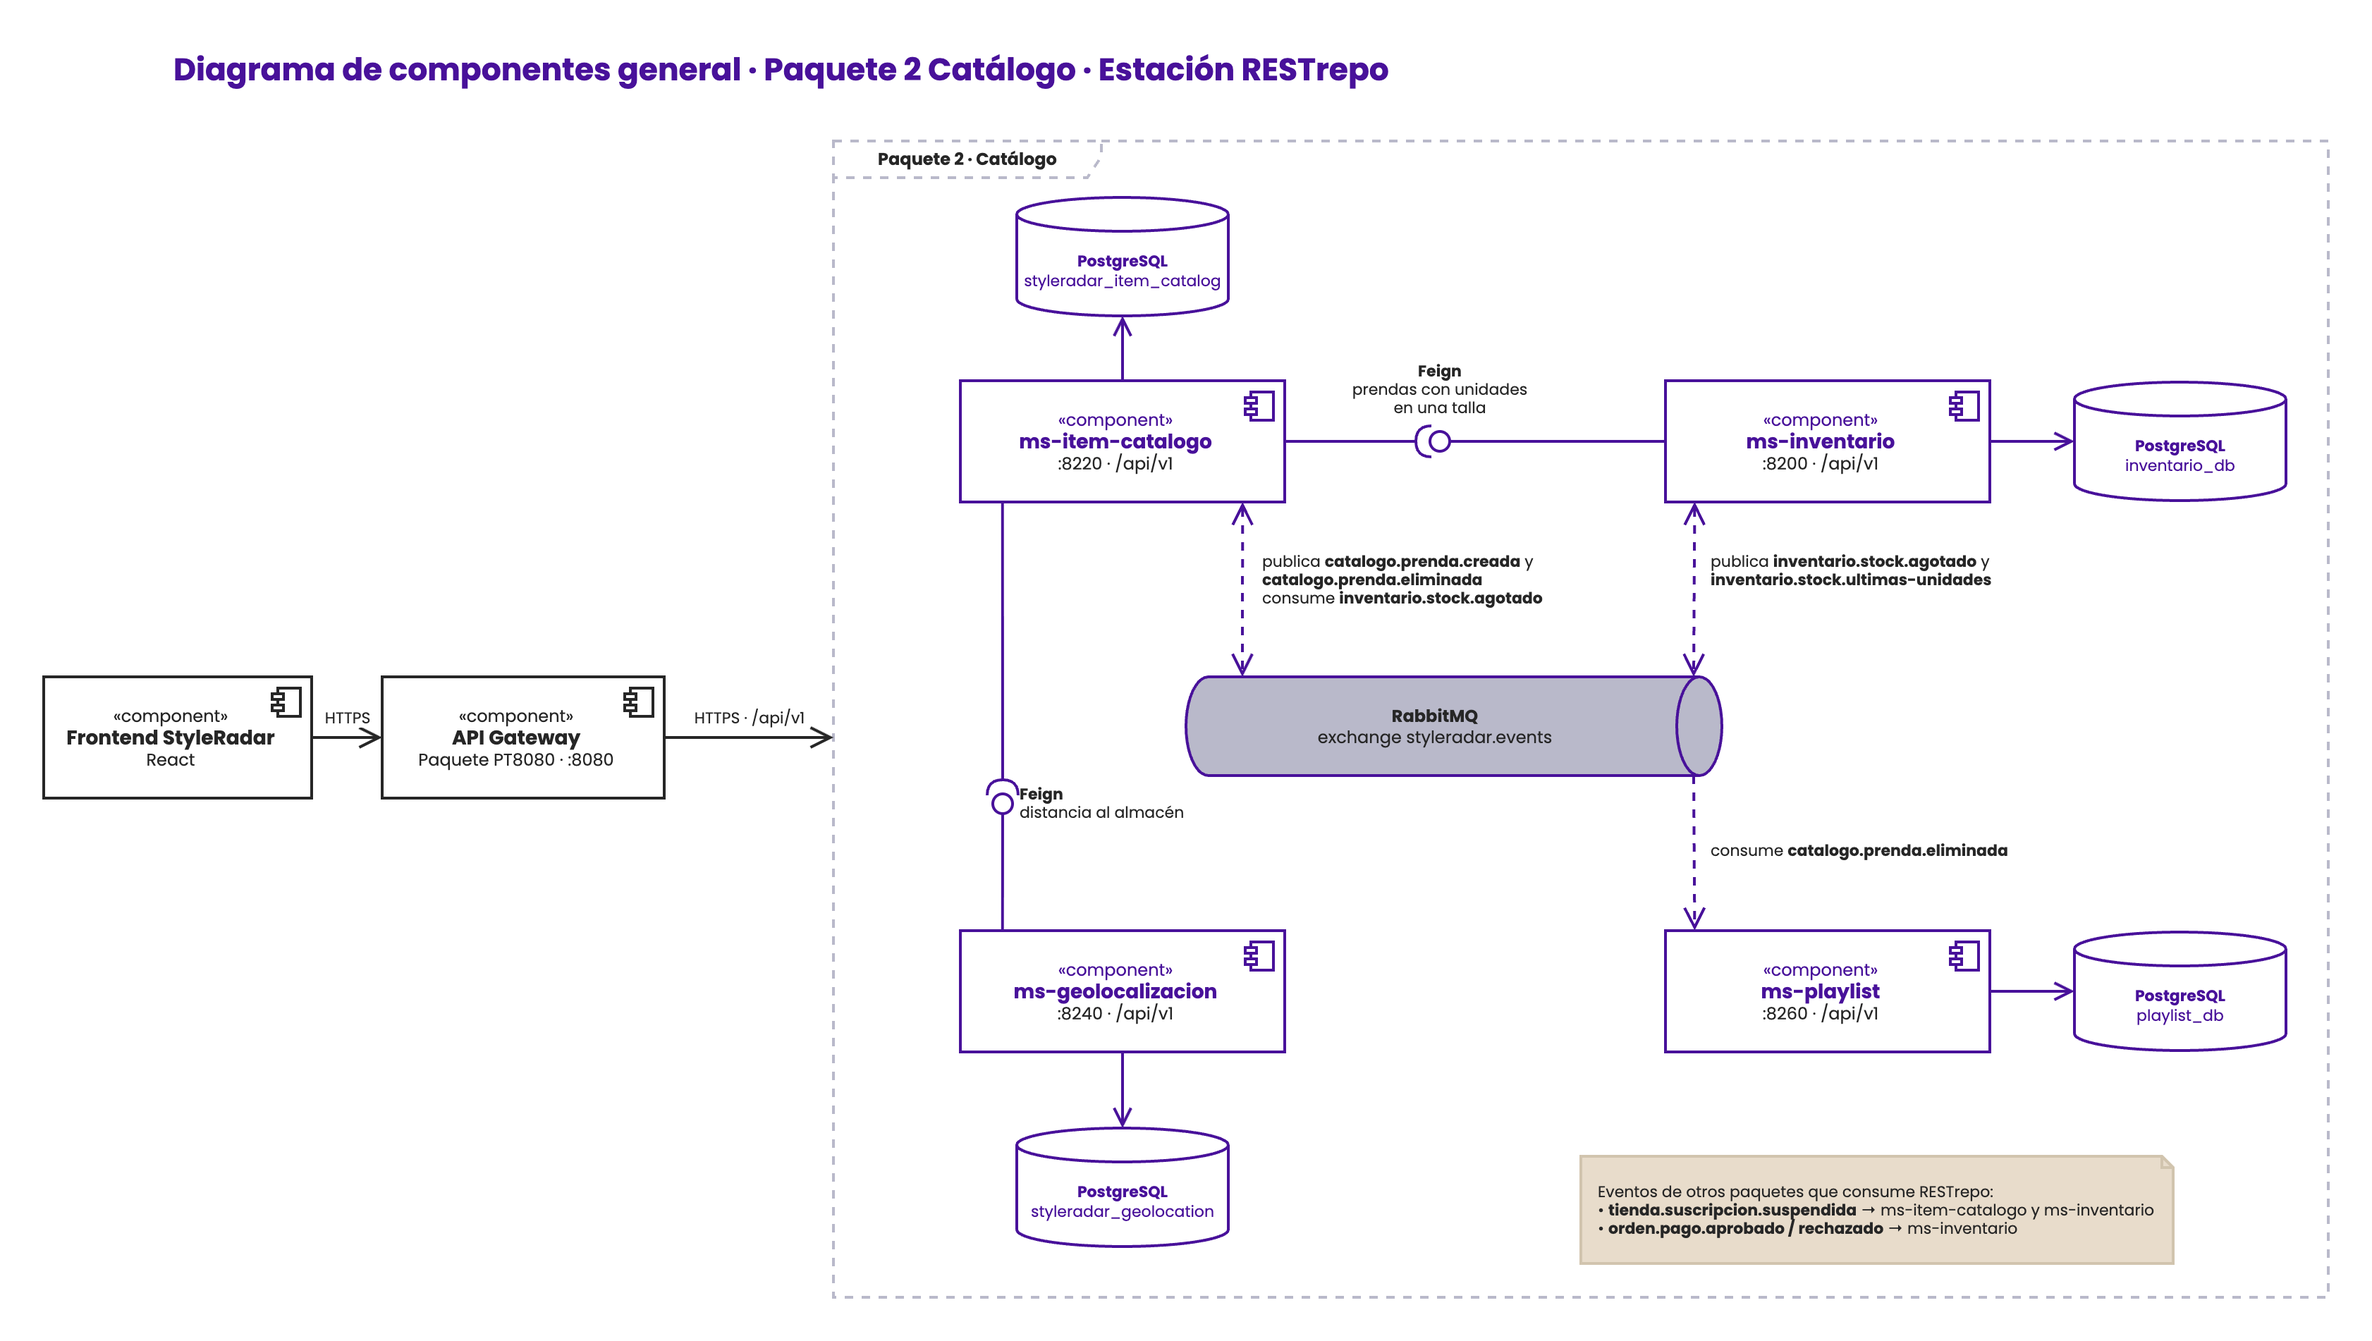
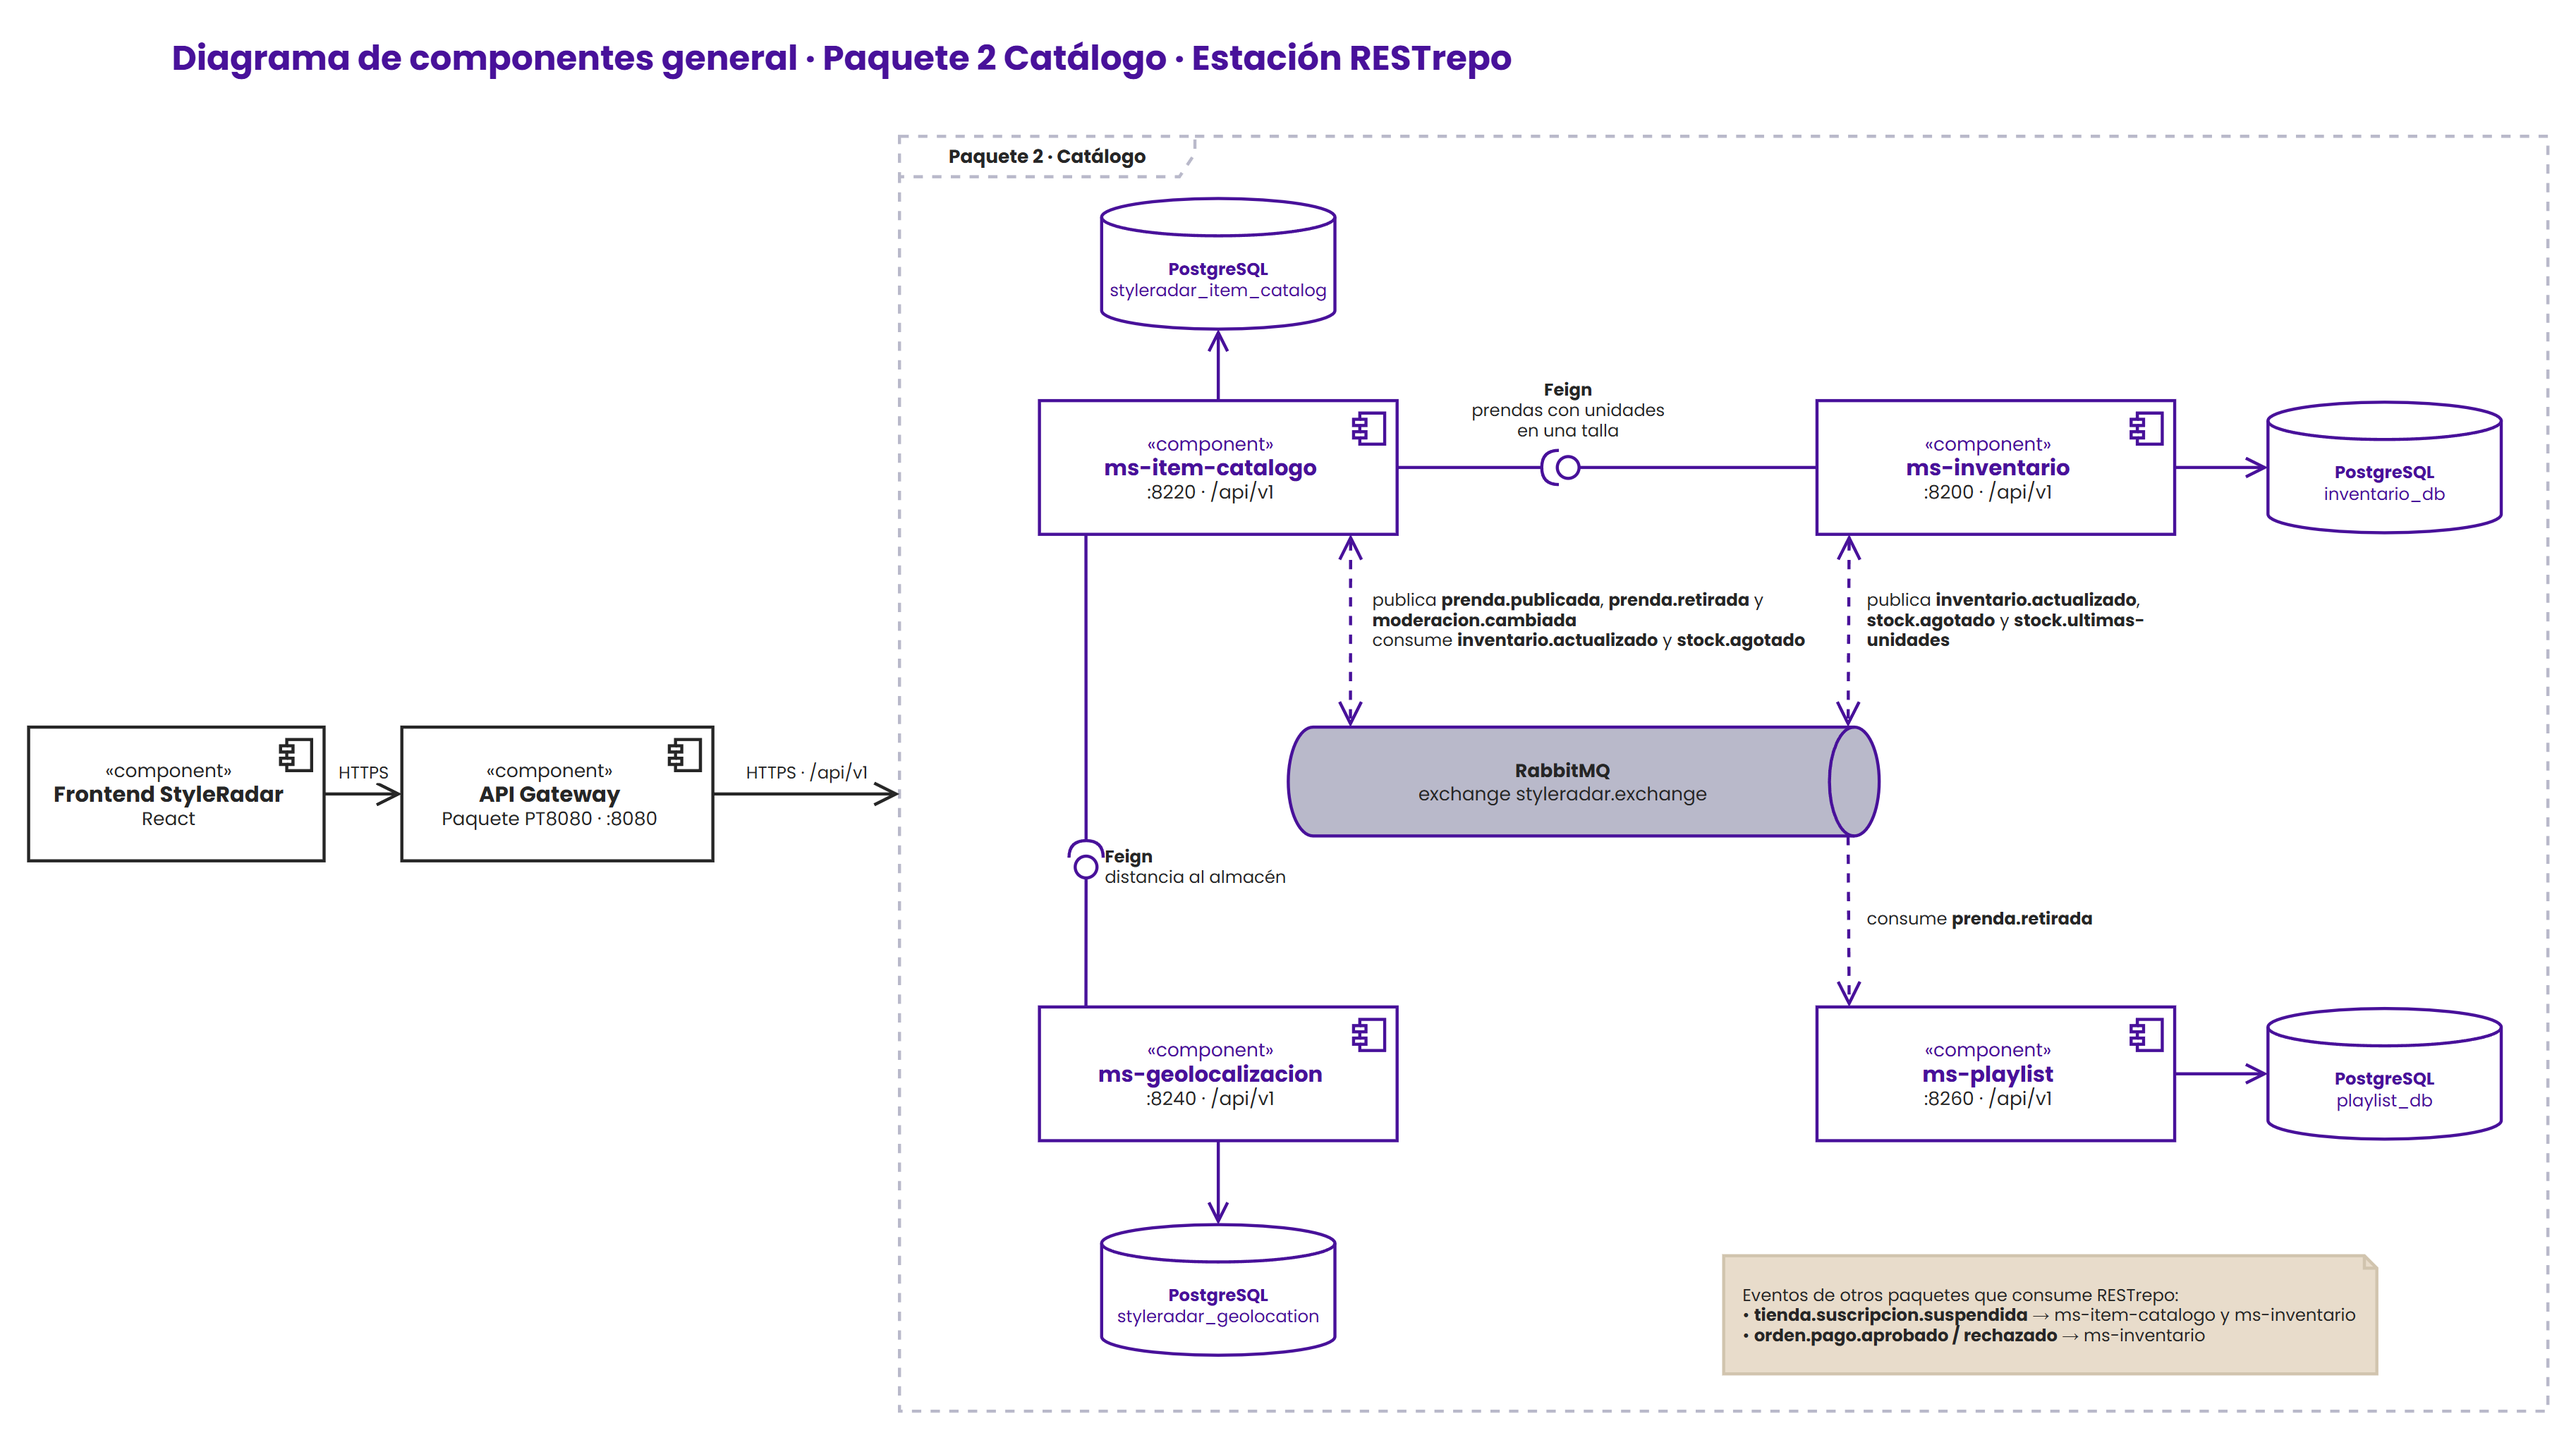
fix: corregir prueba de prenda.publicada y actualizar routing keys en docs

diff --git a/src/main/java/edu/dosw/styleradar/itemcatalogo/infrastructure/adapter/in/rest/doc/PrendaApi.java b/src/main/java/edu/dosw/styleradar/itemcatalogo/infrastructure/adapter/in/rest/doc/PrendaApi.java
@@ -14,7 +14,7 @@ import java.util.UUID;
 public interface PrendaApi {
 
     @Operation(summary = "Publicar prenda",
-            description = "Registra la prenda con sus fotografías, precio y atributos. Queda PENDIENTE de moderación y publica catalogo.prenda.creada (SR-RF-50, 51, 53 y 54).")
+            description = "Registra la prenda con sus fotografías, precio y atributos. Queda PENDIENTE de moderación; al aprobarse se publica styleradar.catalogo.prenda.publicada (SR-RF-50, 51, 53 y 54).")
     @ApiResponse(responseCode = "201", description = "Prenda publicada")
     @ApiResponse(responseCode = "400", description = "Campos inválidos")
     @ApiResponse(responseCode = "404", description = "El almacén no existe")
@@ -39,7 +39,7 @@ public interface PrendaApi {
                                           PrendaRequest request);
 
     @Operation(summary = "Retirar prenda",
-            description = "Solo el almacén dueño o un administrador. La prenda deja de mostrarse y se publica catalogo.prenda.eliminada (SR-RF-58).")
+            description = "Solo el almacén dueño o un administrador. La prenda deja de mostrarse y se publica styleradar.catalogo.prenda.retirada (SR-RF-58).")
     @ApiResponse(responseCode = "200", description = "Prenda retirada")
     @ApiResponse(responseCode = "403", description = "No es el almacén dueño ni un administrador")
     @ApiResponse(responseCode = "404", description = "La prenda no existe")

diff --git a/src/test/java/edu/dosw/styleradar/itemcatalogo/ItemCatalogoIntegrationTest.java b/src/test/java/edu/dosw/styleradar/itemcatalogo/ItemCatalogoIntegrationTest.java
@@ -149,7 +149,6 @@ class ItemCatalogoIntegrationTest {
     void alAprobarSePublicaLaPrendaPublicada() throws Exception {
         String cola = escuchar("q.test.prenda-publicada", "styleradar.catalogo.prenda.publicada");
         String id = publicar("Gorra amarilla");
-        assertThat(rabbitTemplate.receiveAndConvert(cola, 500)).isNull();
 
         mockMvc.perform(put("/prendas/" + id + "/moderacion").contentType(MediaType.APPLICATION_JSON)
                         .content("{\"decision\":\"APROBADA\",\"moderadorId\":\"99999999-9999-9999-9999-999999999999\"}"))

diff --git a/README.md b/README.md
@@ -185,7 +185,7 @@ flowchart TD
   </table>
 </div>
 
-El diagrama muestra los cuatro microservicios del paquete Catálogo y cómo se relacionan. El front entra por el API Gateway con HTTPS bajo `/api/v1`. `ms-item-catalogo` consulta por Feign a `ms-inventario` las prendas con unidades en una talla y a `ms-geolocalizacion` la distancia a cada almacén. Los eventos viajan por el exchange `styleradar.events` de RabbitMQ: ítem-catálogo publica `catalogo.prenda.creada` y `catalogo.prenda.eliminada` y consume `inventario.stock.agotado`; inventario publica `inventario.stock.agotado` e `inventario.stock.ultimas-unidades`; y playlist consume `catalogo.prenda.eliminada`. Cada servicio tiene su propia base PostgreSQL. El archivo editable está en `docs/evidencias/diagrama-componentes-general-paquete.drawio`.
+El diagrama muestra los cuatro microservicios del paquete Catálogo y cómo se relacionan. El front entra por el API Gateway con HTTPS bajo `/api/v1`. `ms-item-catalogo` consulta por Feign a `ms-inventario` las prendas con unidades en una talla y a `ms-geolocalizacion` la distancia a cada almacén. Los eventos viajan por el exchange `styleradar.exchange` de RabbitMQ: ítem-catálogo publica `styleradar.catalogo.prenda.publicada`, `styleradar.catalogo.prenda.retirada` y `styleradar.catalogo.moderacion.cambiada` y consume `styleradar.inventario.actualizado` y `styleradar.inventario.stock.agotado`; inventario publica `styleradar.inventario.actualizado`, `styleradar.inventario.stock.agotado` y `styleradar.inventario.stock.ultimas-unidades`; y playlist consume `styleradar.catalogo.prenda.retirada`. Cada servicio tiene su propia base PostgreSQL. El archivo editable está en `docs/evidencias/diagrama-componentes-general-paquete.drawio`.
 
 ### Diagrama de Componentes Específico
 
@@ -325,7 +325,7 @@ El almacén publica la prenda desde Mi tienda con sus fotos, precio, atributos y
   </table>
 </div>
 
-El usuario busca y filtra prendas por tipo, color, talla o precio, y puede ordenar los resultados por distancia. ms-item-catalogo consulta a ms-inventario las prendas con unidades en la talla pedida y a ms-geolocalizacion la distancia a cada almacén. El usuario guarda una prenda en su playlist y, si la tienda la retira, ms-item-catalogo publica `catalogo.prenda.eliminada` y ms-playlist la quita de las playlists.
+El usuario busca y filtra prendas por tipo, color, talla o precio, y puede ordenar los resultados por distancia. ms-item-catalogo consulta a ms-inventario las prendas con unidades en la talla pedida y a ms-geolocalizacion la distancia a cada almacén. El usuario guarda una prenda en su playlist y, si la tienda la retira, ms-item-catalogo publica `styleradar.catalogo.prenda.retirada` y ms-playlist la marca como no disponible en las playlists.
 
 <div align="center">
   <table width="100%" style="margin: 18px 0; border: 2px dashed #C4B5FD; border-radius: 8px; background-color: #FBFBFE;">
